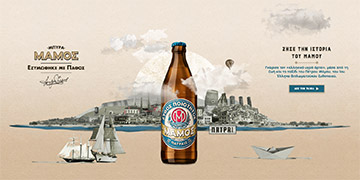
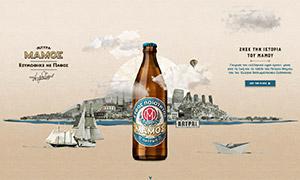
Update

diff --git a/index.html b/index.html
@@ -4,6 +4,7 @@
     <meta charset="UTF-8">
     <meta name="viewport" content="width=device-width, initial-scale=1.0">
     <meta http-equiv="X-UA-Compatible" content="ie=edge">
+    <link rel="shortcut icon" type="image/png" href="images/favicon.png"/>
     <link rel="stylesheet" href="style.css">
     <title>Charalampos Samouridis</title>
 </head>
@@ -17,7 +18,7 @@
                 <iframe width="560" height="315" src="https://www.youtube.com/embed/iV9uhCDRv-Q" frameborder="0" allow="accelerometer; autoplay; encrypted-media; gyroscope; picture-in-picture" allowfullscreen></iframe>        </div>
         <div class="grid">
             <section>
-                <div title="Custom CMS"><a href="http://preview.sohosquare.gr/mamosWebsite/mamos2/index.html" target="_blank"><span>Mamos Beer</span><img src="images/mamos.png"></a></div>
+                <div title="Custom CMS"><a href="http://preview.sohosquare.gr/mamosWebsite/mamos2/index.html" target="_blank"><span>Mamos Beer</span><img src="images/mamos.jpg"></a></div>
                 <p>
                     • Mamos Home Page
                     <br><br>
